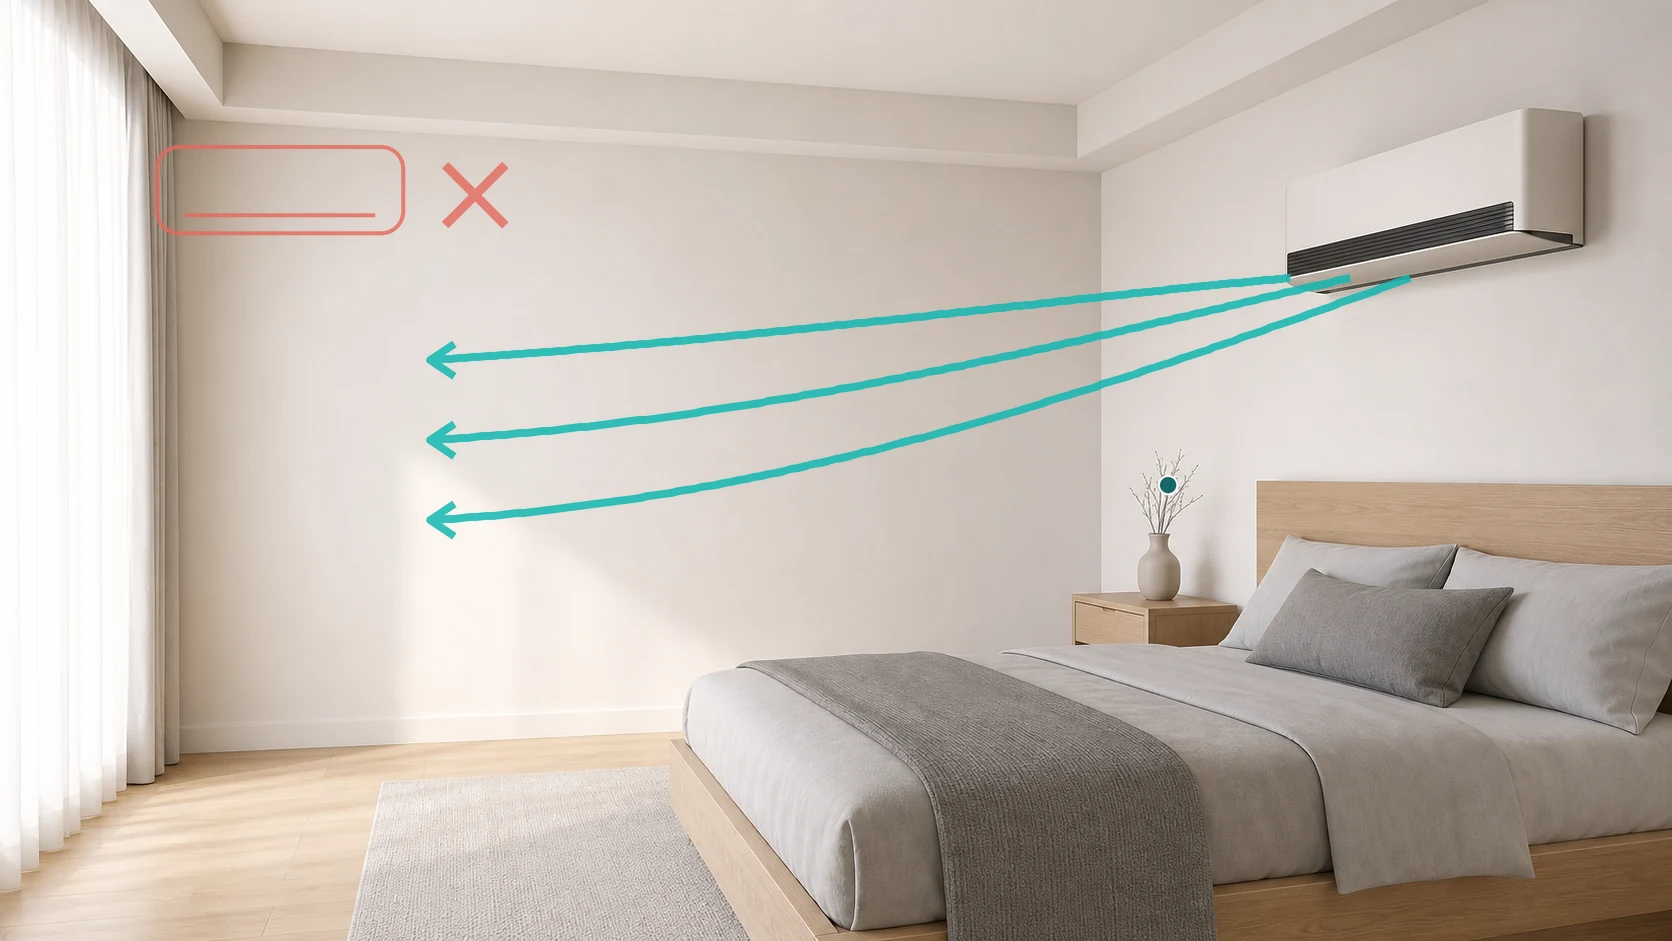
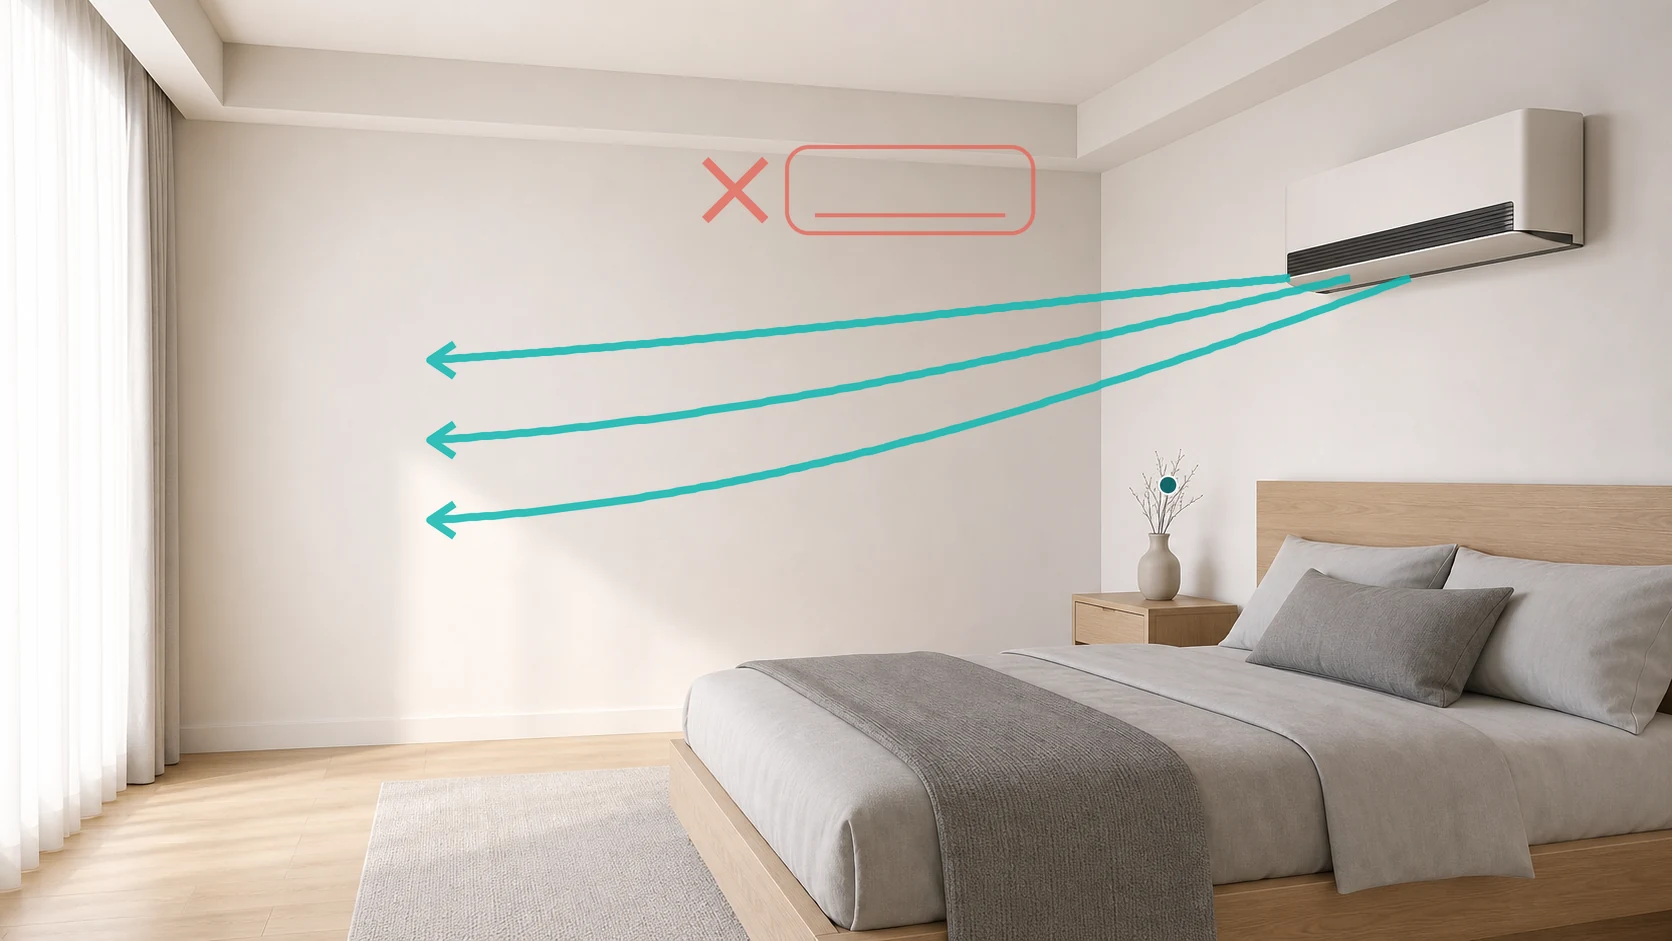
assets: correct unsafe bedroom placement marker (#705)

Changed region(s): [[0.4043, 0.1541, 0.622, 0.2774], [0.0933, 0.1849, 0.311, 0.2774], [0.0933, 0.1541, 0.2488, 0.1849]]

diff --git a/outputs/moodboards/mvn-calibration-v1/compose_placement_final.py b/outputs/moodboards/mvn-calibration-v1/compose_placement_final.py
@@ -52,11 +52,13 @@ def main():
         draw.line(scale_points(chevron, factor), fill=TEAL, width=8 * factor, joint="curve")
 
     # Wrong-position ghost: one outline and one X, with no airflow attached.
-    ghost_box = tuple(round(value * factor) for value in (155, 145, 405, 235))
+    # The unsafe position sits tight to the room corner above the bed approach:
+    # from here the supply jet would be directed into the sleeper's face zone.
+    ghost_box = tuple(round(value * factor) for value in (785, 145, 1035, 235))
     draw.rounded_rectangle(ghost_box, radius=24 * factor, outline=CORAL, width=4 * factor)
-    draw.line(scale_points([(185, 215), (375, 215)], factor), fill=CORAL, width=4 * factor)
-    draw.line(scale_points([(445, 165), (505, 225)], factor), fill=CORAL, width=9 * factor)
-    draw.line(scale_points([(505, 165), (445, 225)], factor), fill=CORAL, width=9 * factor)
+    draw.line(scale_points([(815, 215), (1005, 215)], factor), fill=CORAL, width=4 * factor)
+    draw.line(scale_points([(705, 160), (765, 220)], factor), fill=CORAL, width=9 * factor)
+    draw.line(scale_points([(765, 160), (705, 220)], factor), fill=CORAL, width=9 * factor)
 
     # MVN measurement point near pillow height.
     center = (1168 * factor, 485 * factor)
